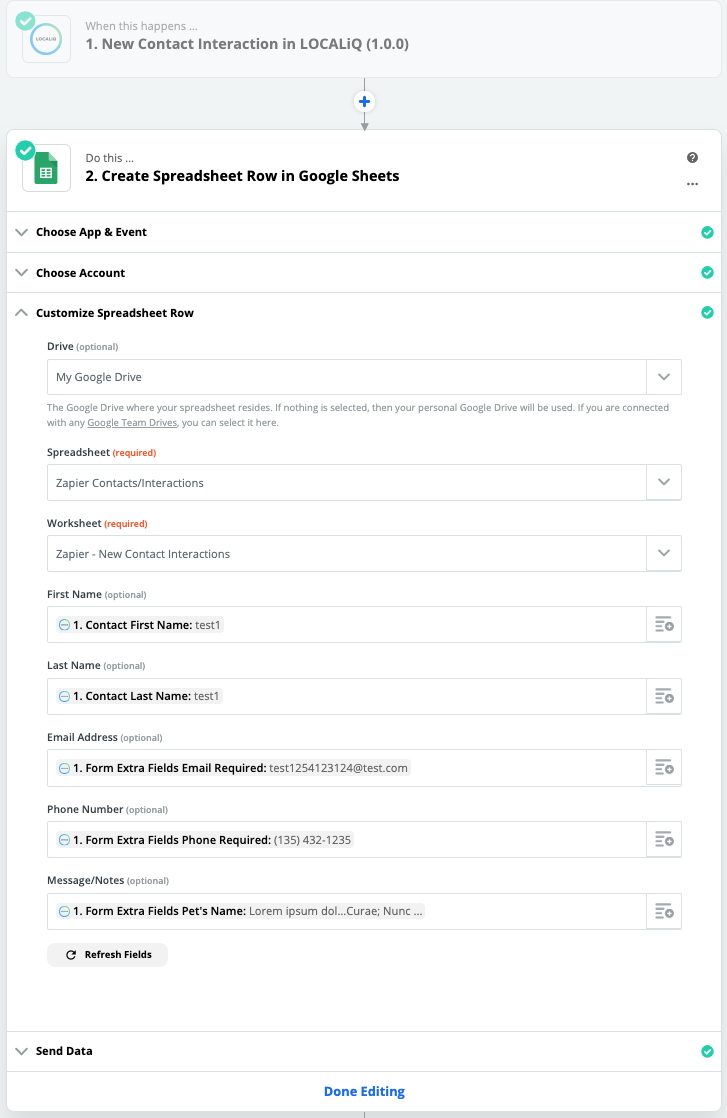
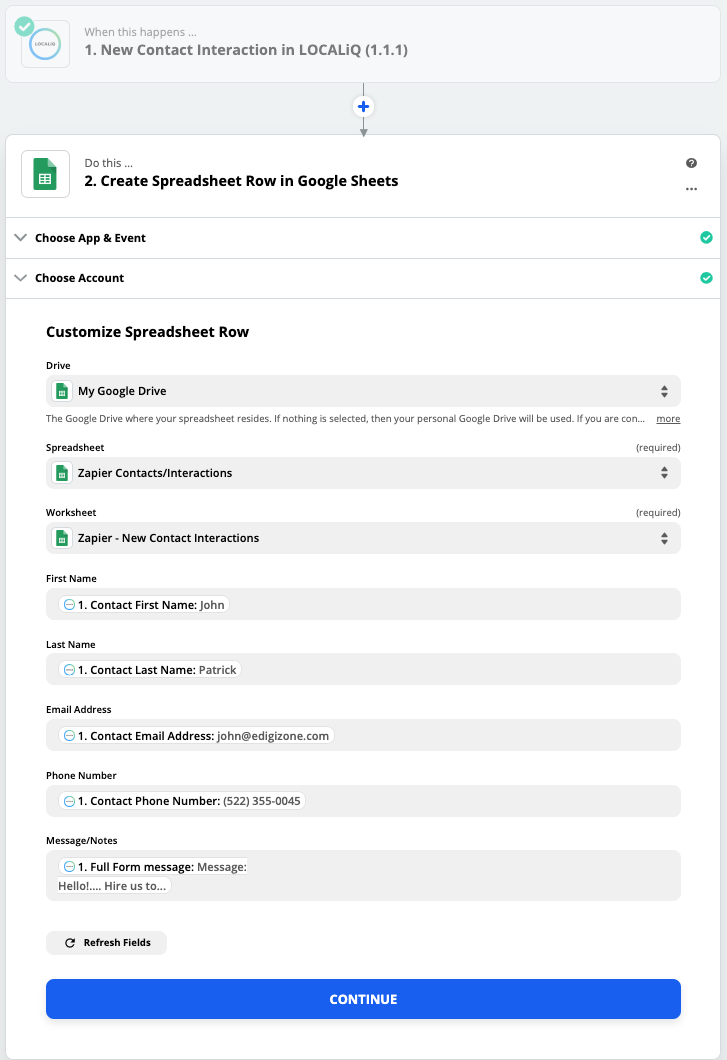
Zapier/Contact Interactions Updates
Updated the Zapier image and updated the Contact Interactions repsonse body to reflect the new fields/response format.

diff --git a/source/includes/_contact_interactions.md b/source/includes/_contact_interactions.md
@@ -53,9 +53,9 @@ curl --request GET \
     "contact_interactions": [
         {
             "campaign_id": 26330,
+            "master_campaign_id": "2705608",
             "campaign_name": "Direct Site Traffic",
             "id": 1013941,
-            "archived_at": "2019-01-07T12:46:17-08:00",
             "created_at": "2019-01-07T12:46:17-08:00",
             "occured_at": "2019-01-07T12:46:14-08:00",
             "tags": [
@@ -77,20 +77,27 @@ curl --request GET \
                 "last_name": "",
                 "email": "asdf@asdf.com",
                 "phone_work": "asdf",
-                "archived_at": "2018-08-14T08:18:10-07:00"
+                "company": "Slate Quarry",
+                "address1": "123 Rubble Street",
+                "address2": "Suite 1",
+                "city": "Bedrock",
+                "state": "AZ",
+                "postal": "86046",
+                "country": "USA"
             },
             "form": {
                 "sub_type": "FormEmail",
+                "subject": "Hey",
                 "full_message": "Message:\nasdf",
                 "message": "asdf",
                 "extra_fields": {}
-            }
+            },
+            "archived_at": "2019-01-08T12:46:14-08:00"
         },
         {
             "campaign_id": 26330,
             "campaign_name": "Direct Site Traffic",
             "id": 1013951,
-            "archived_at": "2019-01-07T13:26:09-08:00",
             "created_at": "2019-01-07T13:26:09-08:00",
             "occured_at": "2019-01-07T13:26:05-08:00",
             "tags": [
@@ -112,14 +119,22 @@ curl --request GET \
                 "last_name": "",
                 "email": "asdf@asdf.com",
                 "phone_work": "asdf",
-                "archived_at": "2018-08-14T08:18:10-07:00"
+                "company": "Slate Quarry",
+                "address1": "123 Rubble Street",
+                "address2": "Suite 1",
+                "city": "Bedrock",
+                "state": "AZ",
+                "postal": "86046",
+                "country": "USA"
             },
             "form": {
                 "sub_type": "FormEmail",
+                "subject": "Hi",
                 "full_message": "Message:\nasdf",
                 "message": "asdf",
                 "extra_fields": {}
-            }
+            },
+            "archived_at": "2019-01-08T13:26:05-08:00"
         },
         {
             "campaign_id": 26330,
@@ -145,14 +160,23 @@ curl --request GET \
                 "first_name": "Victer",
                 "last_name": "",
                 "email": "victer@j.com",
-                "phone_work": ""
+                "phone_work": "",
+                "company": "Slate Quarry",
+                "address1": "234 Rubble Street",
+                "address2": "Suite 2",
+                "city": "Bedrock",
+                "state": "AZ",
+                "postal": "86046",
+                "country": "USA"
             },
             "form": {
                 "sub_type": "FormEmail",
+                "subject": "Hello",
                 "full_message": "Message:\nhi",
                 "message": "hi",
                 "extra_fields": {}
-            }
+            },
+            "archived_at": "2019-01-09T13:26:05-08:00"
         },
         {
             "campaign_id": 26330,
@@ -178,14 +202,23 @@ curl --request GET \
                 "first_name": "Webtest",
                 "last_name": "",
                 "email": "webtest@l.com",
-                "phone_work": ""
+                "phone_work": "",
+                "company": "Slate Quarry",
+                "address1": "345 Rubble Street",
+                "address2": "Suite 3",
+                "city": "Bedrock",
+                "state": "AZ",
+                "postal": "86046",
+                "country": "USA"
             },
             "form": {
                 "sub_type": "FormEmail",
+                "subject": "Good morning",
                 "full_message": "Message:\nhi",
                 "message": "hi",
                 "extra_fields": {}
-            }
+            },
+            "archived_at": "2019-01-10T10:18:37-08:00"
         },
         {
             "campaign_id": 26330,
@@ -211,14 +244,23 @@ curl --request GET \
                 "first_name": "b",
                 "last_name": "",
                 "email": "b@l.com",
-                "phone_work": ""
+                "phone_work": "",
+                "company": "Slate Quarry",
+                "address1": "456 Rubble Street",
+                "address2": "Suite 4",
+                "city": "Bedrock",
+                "state": "AZ",
+                "postal": "86046",
+                "country": "USA"
             },
             "form": {
                 "sub_type": "FormEmail",
+                "subject": "Good afternoon",
                 "full_message": "Message:\nhi",
                 "message": "hi",
                 "extra_fields": {}
-            }
+            },
+            "archived_at": "2019-01-10T10:18:37-08:00"
         }
         ...
     ]
